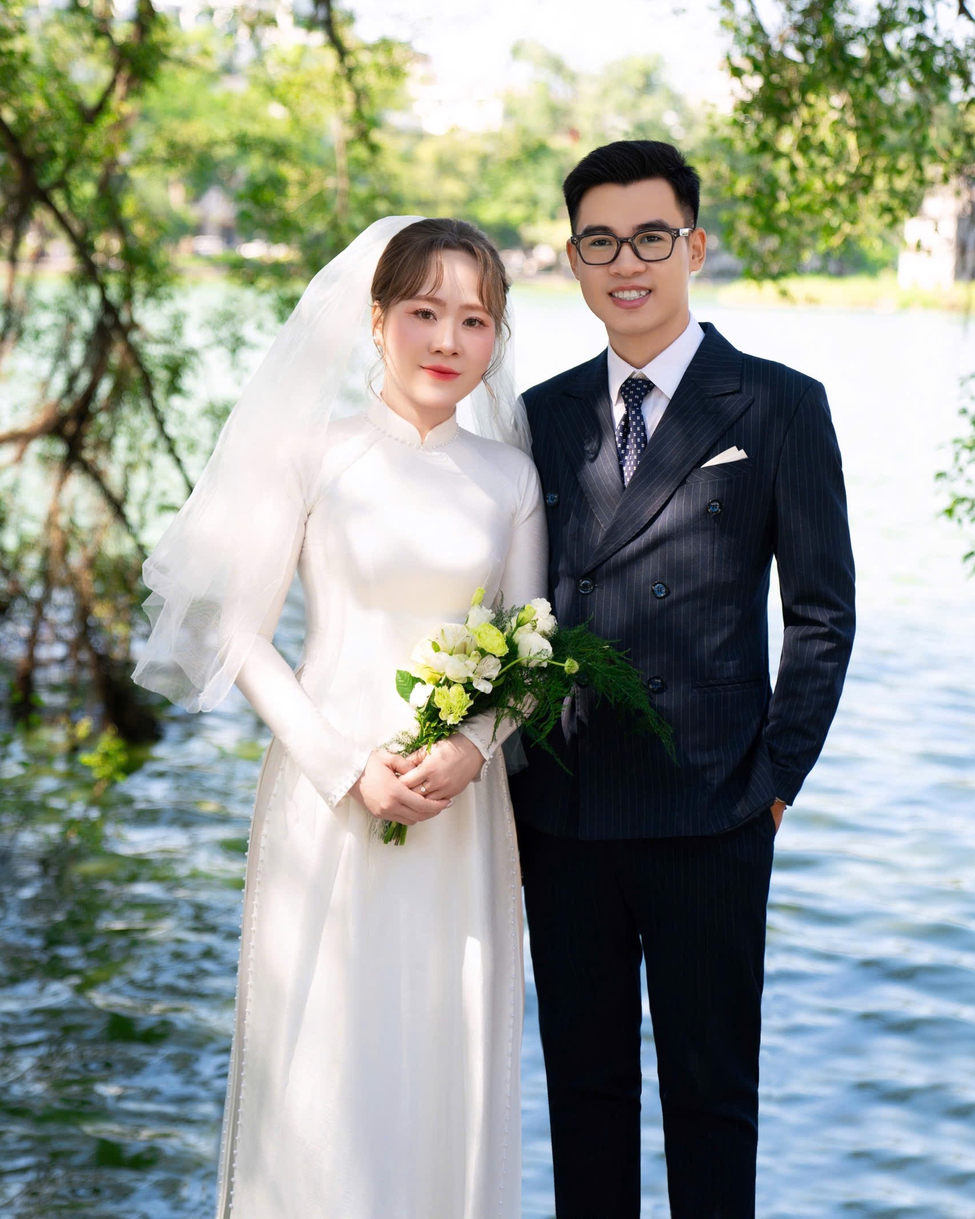
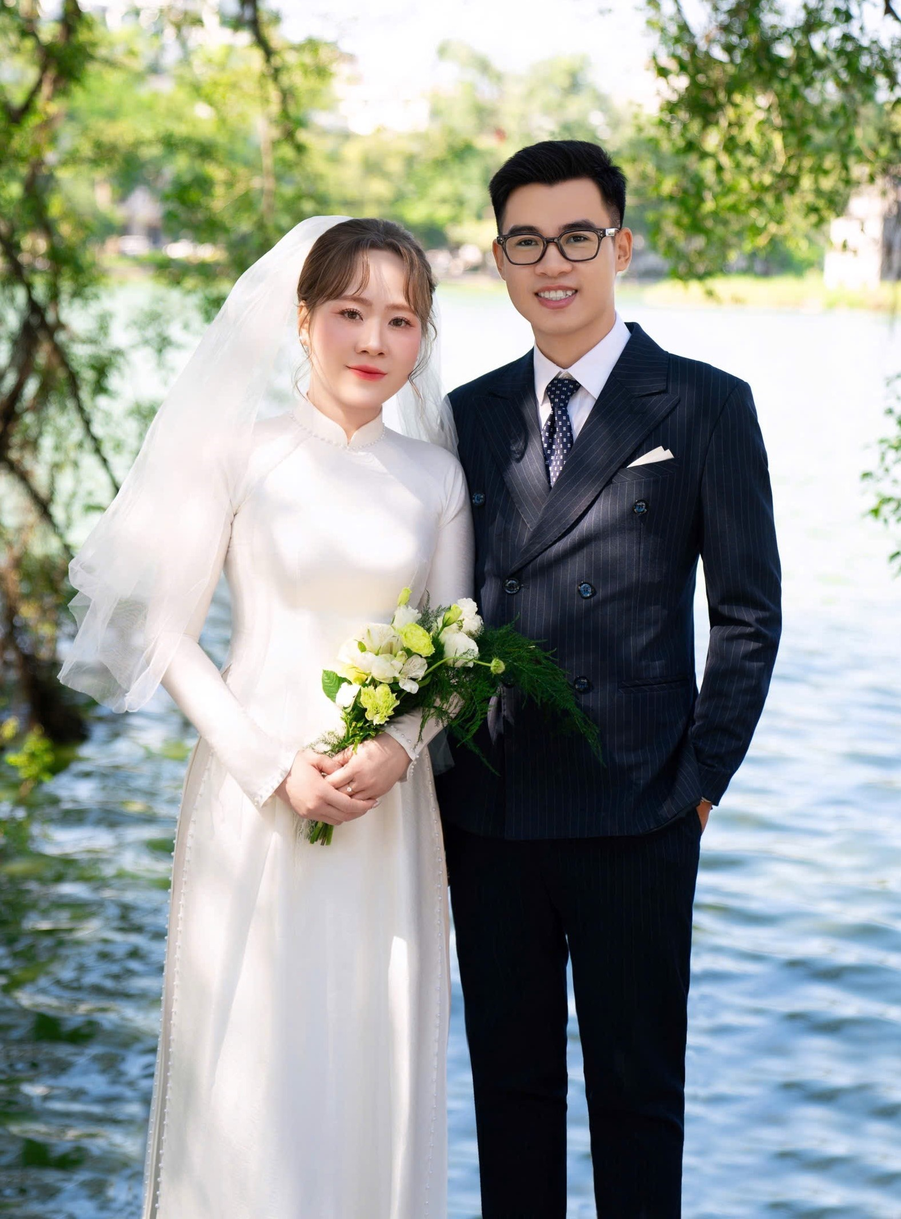
fixxx

diff --git a/index.html b/index.html
@@ -589,7 +589,7 @@
         <div class="about-container container">
             <div class="about-card" style="order:1">
                 <div class="about-media" data-aos="fade-up" data-aos-duration="3000">
-                    <img src="images/Km17rY52r4l1ROG7iJrTn15eA8prdWrUqVgz7IZI.jpg" alt="" class="bride_img">
+                    <img src="images/cr.jpg" alt="" class="bride_img">
                 </div>
                 <div class="about-data uk-text-center" data-aos="fade-down" data-aos-duration="1000">
                     <h3 class="bride_name script-font">Ngọc Huyền</h3>
@@ -659,7 +659,7 @@
 
                             <div class="timeline-media">
 
-                                <img src="images/anhoi.jpg" alt="" class="timline-img">
+                                <img src="images/ah.jpg" alt="" class="timline-img">
 
                             </div>
 
@@ -677,7 +677,7 @@
 
                             <div class="timeline-media">
 
-                                <img src="images/UMdYV3QZ1ljkomEsg68W6GCb3U8HMJeZZYT3bK6r.jpg" alt="" class="timline-img">
+                                <img src="images/TxsL3OnTj67XKQJUKIdVpgVNEpxadXheA890xwpz.jpg" alt="" class="timline-img">
 
                             </div>
 
@@ -685,7 +685,7 @@
 
                                 <span class="story-date">08/03/2026</span>
 
-                                <span class="title">Lễ Kết Hôn</span>
+                                <span class="title">Lễ Thành Hôn</span>
 
 
                             </div>
